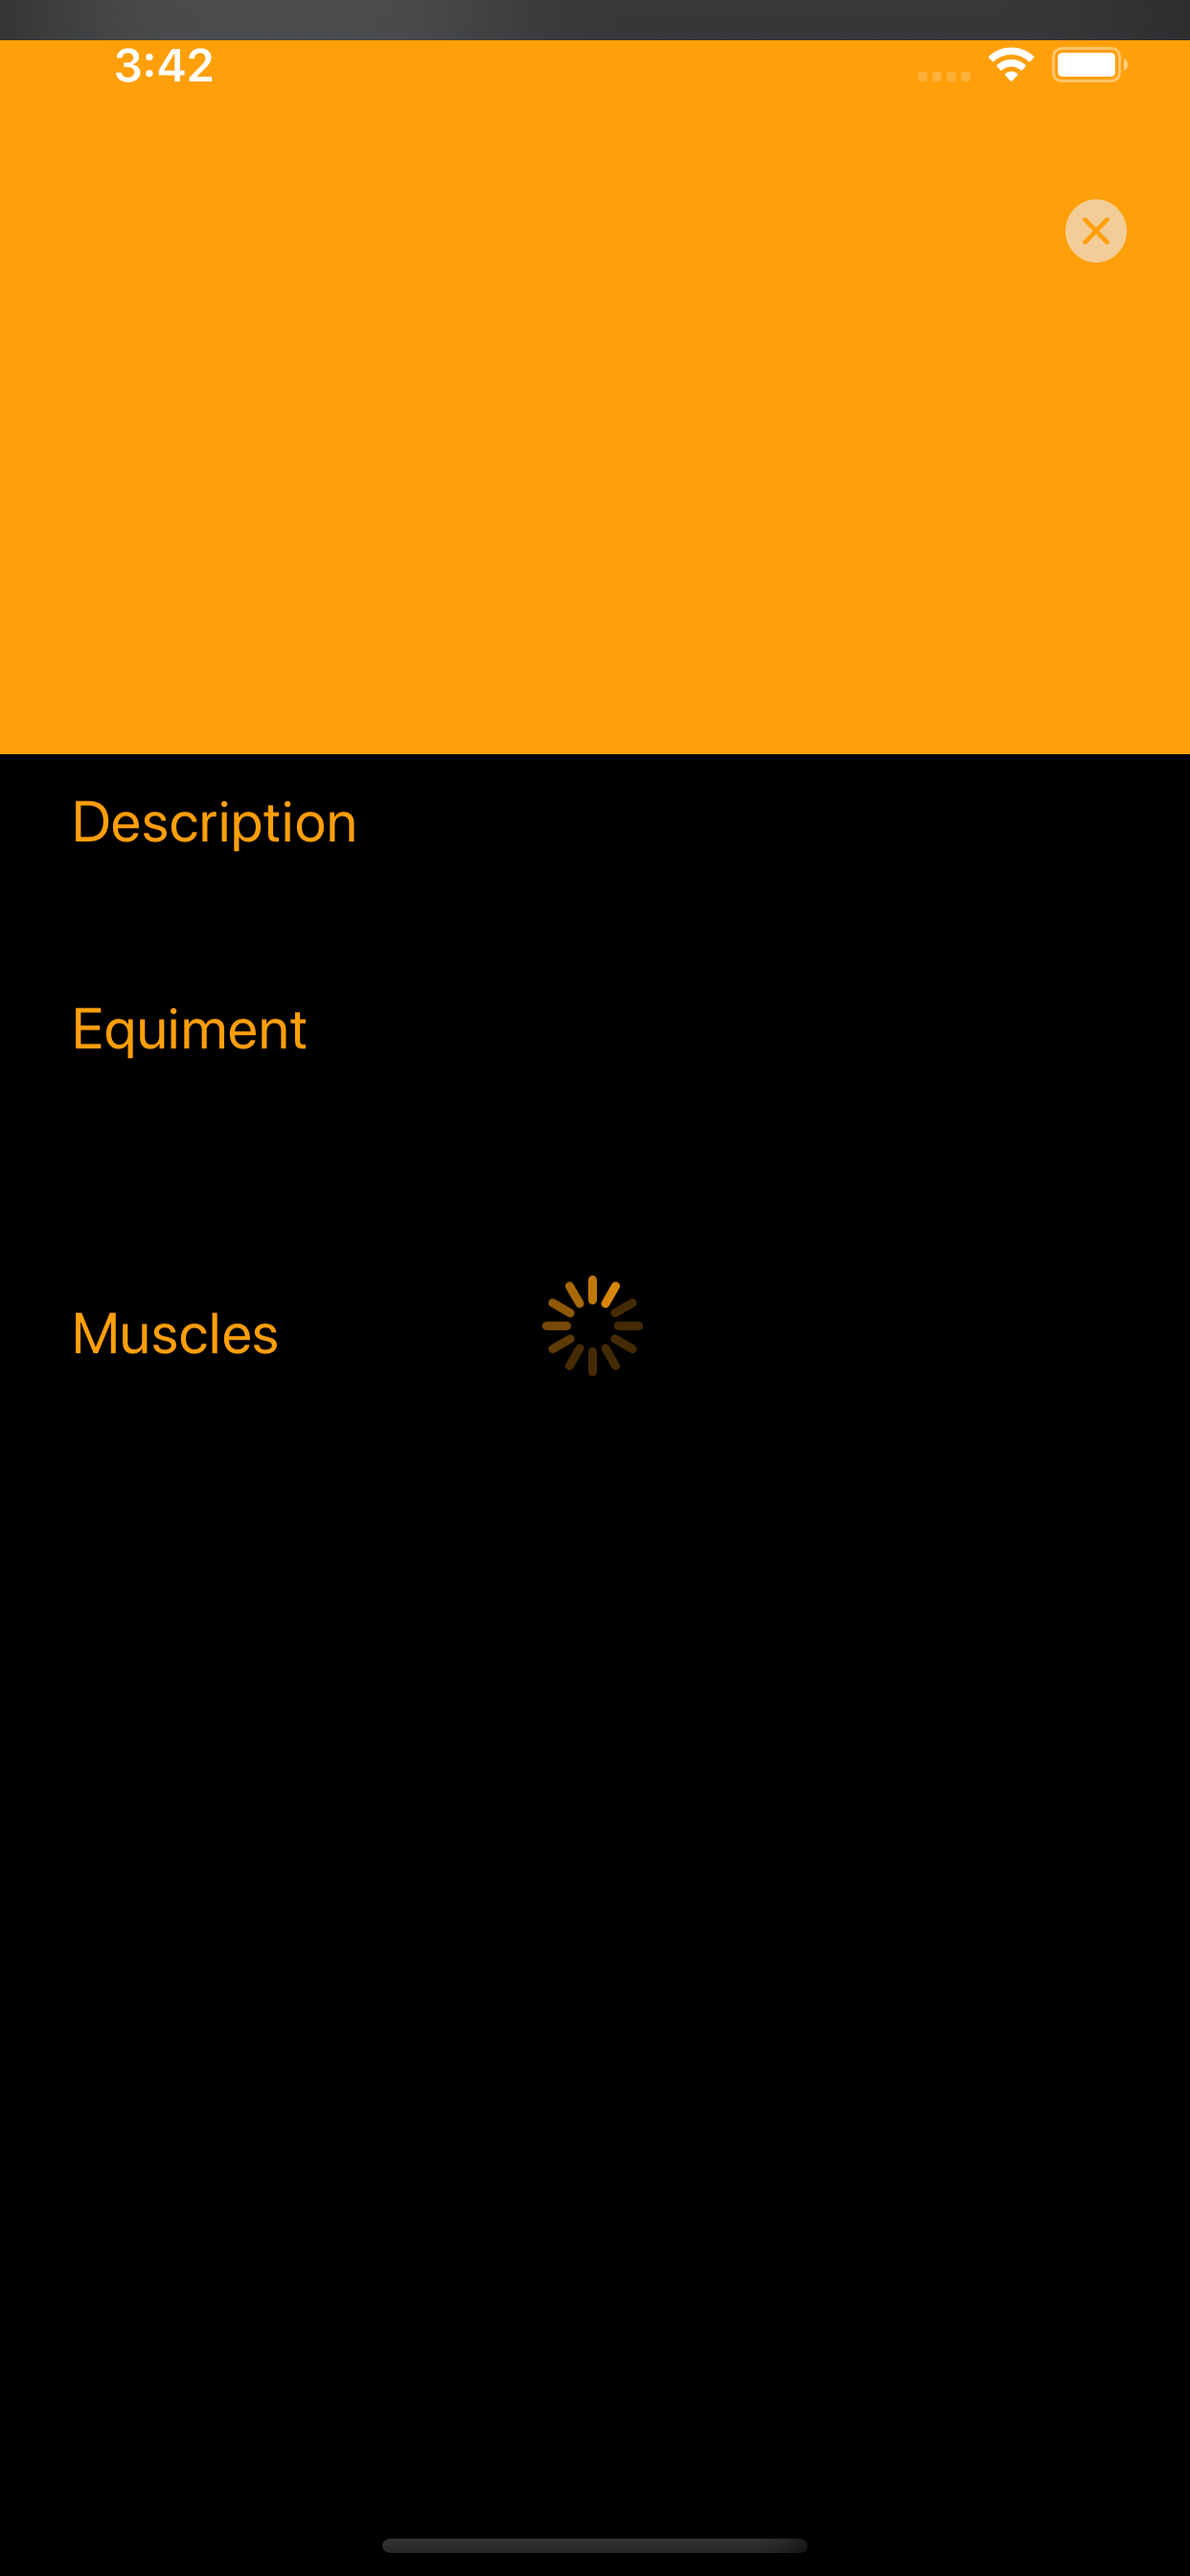
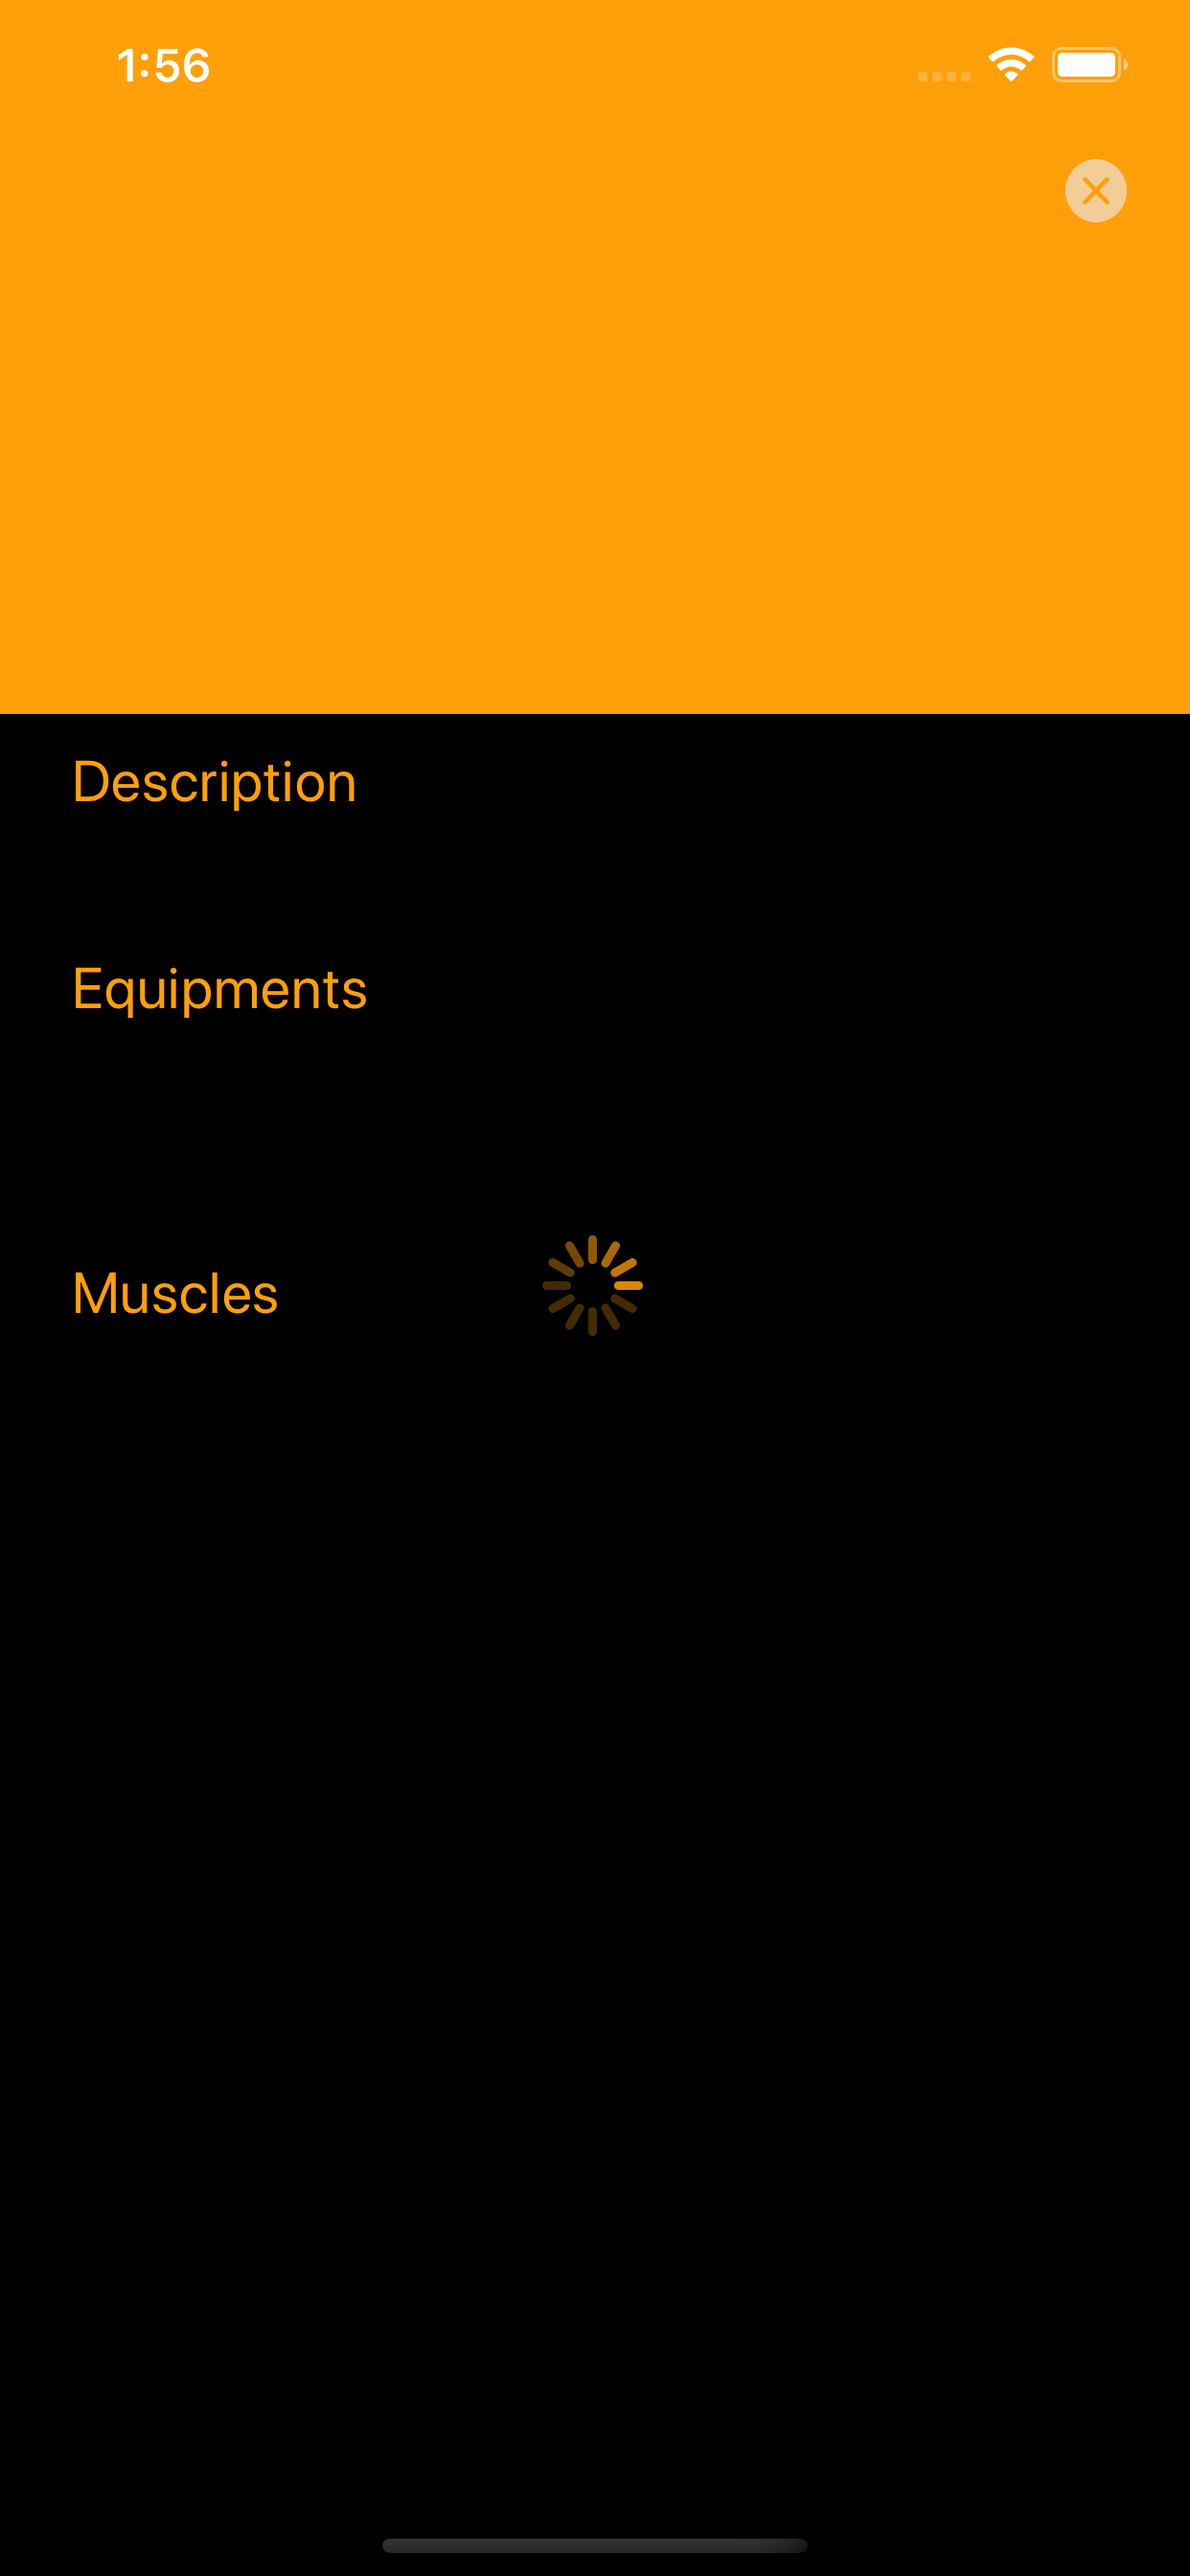
fixed typos.

diff --git a/Exercises/Utils/AlertView.swift b/Exercises/Utils/AlertView.swift
@@ -13,7 +13,7 @@ struct AlertView{
         switch result {
         case .failure:
             DispatchQueue.main.async {
-                let alert = UIAlertController(title: "Error", message: title != nil ? title : "Something went worng.", preferredStyle: .alert)
+                let alert = UIAlertController(title: "Error", message: title != nil ? title : "Something went wrong.", preferredStyle: .alert)
                 alert.addAction(UIAlertAction(title: "Ok", style: .default) { (action:UIAlertAction!) in
                     print("Selected")
                     errorClosure()

diff --git a/Exercises/Detail/Views/ExerciseDetailViewController.swift b/Exercises/Detail/Views/ExerciseDetailViewController.swift
@@ -11,10 +11,10 @@ import UIKit
 class ExerciseDetailViewController: UIViewController {
 
     internal enum Section: String,  CaseIterable {
-        case title = "title"
-        case image = "image"
+        case title = "Title"
+        case image = "Images"
         case description = "Description"
-        case equipment = "Equiment"
+        case equipment = "Equipments"
         case muscles = "Muscles"
         
     }
